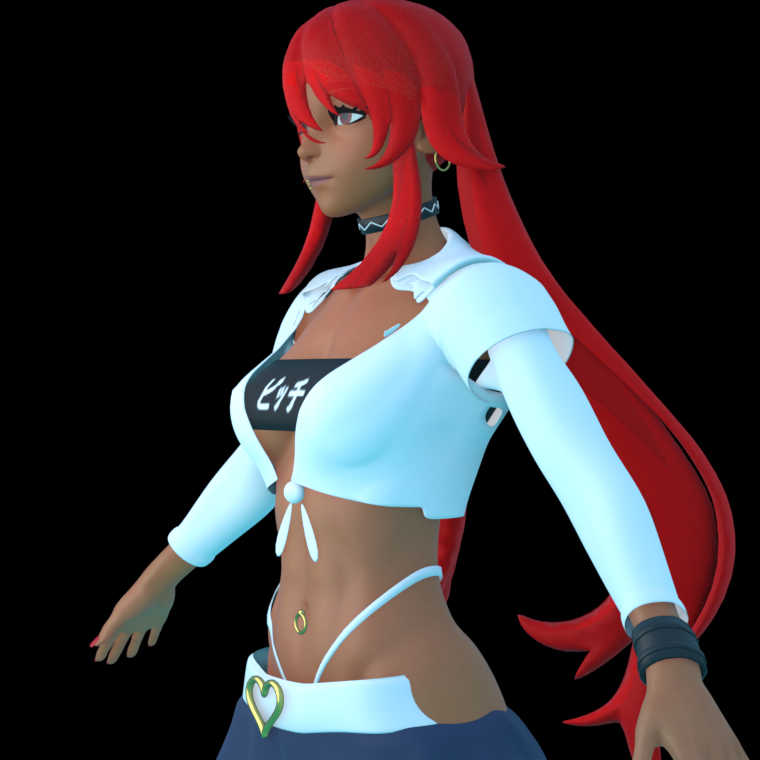
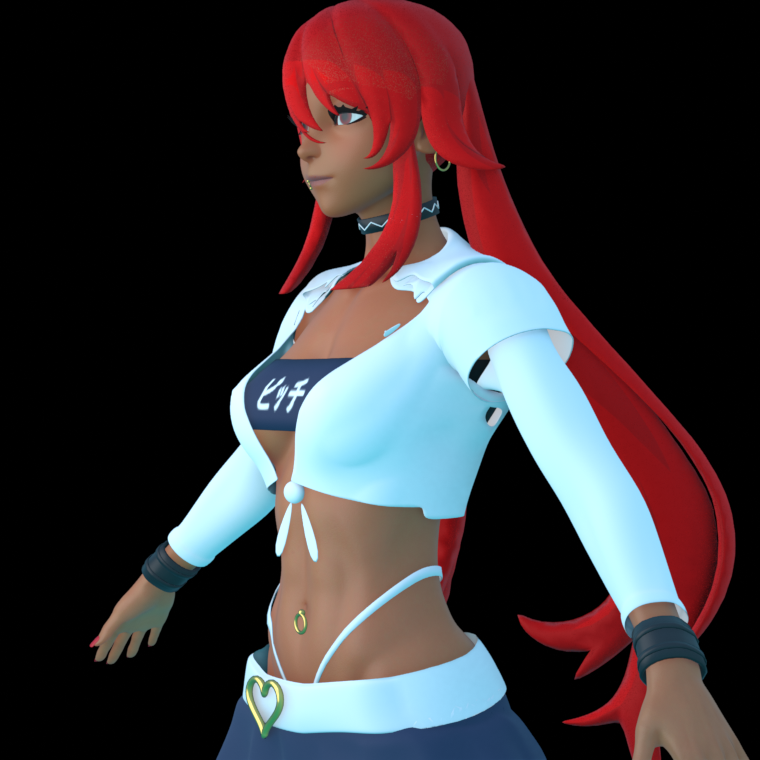
Restyle: keep garments clear of the skin, match full reference fit
Every garment now holds itself just outside the body surface so nothing
clips in any pose; the belt rides over the pleats. Adds the second wrist
cuff, navy bandeau, double white hem stripe and extra preview angles.

Claude-Session: https://claude.ai/code/session_01YBmGHDL1HPYT4vQtLqAYCC

Changed region(s): [[0.5145, 0.8171, 0.6658, 0.9684], [0.3026, 0.4539, 0.4539, 0.575], [0.1816, 0.6961, 0.2724, 0.7868]]

diff --git a/character_restyle/restyle.py b/character_restyle/restyle.py
@@ -138,6 +138,25 @@ def barbell(name, p0, p1, ball, bar, coll, mat):
     return new_obj(name, me, coll, mat)
 
 
+def keep_outside(o, offset, group=None):
+    """Hold a garment at least `offset` off the skin, in any pose (only vertices that sink in move)."""
+    m = o.modifiers.new("Rebel Keep Outside Body", "SHRINKWRAP")
+    m.target = body
+    m.wrap_method = "NEAREST_SURFACEPOINT"
+    m.wrap_mode = "OUTSIDE"
+    m.offset = offset
+    if group:
+        m.vertex_group = group
+    # must run on the posed shape but before any thickness is added
+    idx = len(o.modifiers) - 1
+    for i, other in enumerate(o.modifiers):
+        if other.type == "SOLIDIFY":
+            idx = i
+            break
+    o.modifiers.move(len(o.modifiers) - 1, idx)
+    return m
+
+
 def bone_pt(name, tail=False):
     """Bone end in world space, as posed (the rig's default pose is not its rest pose)."""
     b = arm.pose.bones[name]
@@ -406,6 +425,7 @@ bm.free()
 bandeau = new_obj("Bandeau", me, bpy.data.collections["Top"], band_mat)
 tex.extension = "CLIP"
 skin_to_body(bandeau)
+keep_outside(bandeau, 0.002)
 sol = bandeau.modifiers.new("Solidify", "SOLIDIFY")
 sol.thickness = 0.0012
 sol.offset = 1.0
@@ -428,6 +448,7 @@ for side, sx in (("L", 1), ("R", -1)):
         rings.append(offset_loop(wrap(c, ax, 0.085, n=24), c, ax, ease))
     sleeve = band("Shirt Sleeve " + side, rings, uniform, cotton, 0.0012)
     skin_to_body(sleeve)
+    keep_outside(sleeve, 0.003)
     sleeve.modifiers.new("Subdivision", "SUBSURF").levels = 1
 
 # ---------------------------------------------------------------- choker
@@ -440,6 +461,7 @@ for k in (-0.009, 0.0, 0.009):
     rings.append(offset_loop(wrap(c, ax, 0.2), c, ax, 0.0025))
 choker = band("Choker", rings, acc, leather, 0.0025)
 bone_parent(choker, "neck_01")
+keep_outside(choker, 0.002)
 # printed design: a white wavy line running round the band (no pendant)
 print_mat = make_mat("Rebel Choker Print", (0.85, 0.85, 0.85, 1), rough=0.6)
 WN, WAVES = 168, 14
@@ -459,21 +481,24 @@ acc.objects.link(cprint)
 pc.materials.append(print_mat)
 bone_parent(cprint, "neck_01")
 
-# ---------------------------------------------------------------- wrist cuff (her left)
-a, b = bone_pt("L_ForearmTwist"), bone_pt("L_ForearmTwist", True)
-ax = (b - a).normalized()
-c_mid = a.lerp(b, 0.74)
-rings = []
-for k in (-0.024, -0.008, 0.008, 0.024):
-    c = c_mid + ax * k
-    rings.append(offset_loop(wrap(c, ax, 0.12), c, ax, 0.003))
-cuff = band("Wrist Cuff", rings, acc, leather, 0.0035)
-bone_parent(cuff, "L_ForearmTwist")
-for k in (-0.012, 0.012):   # two stitched seams / straps
-    c = c_mid + ax * k
-    strap = band("Wrist Cuff Strap", [offset_loop(wrap(c + ax * s, ax, 0.12), c, ax, 0.0068) for s in (-0.0035, 0.0035)],
-                 acc, leather, 0.0015)
-    bone_parent(strap, "L_ForearmTwist")
+# ---------------------------------------------------------------- black leather cuffs, both wrists
+for side in ("L", "R"):
+    bone = side + "_ForearmTwist"
+    a, b = bone_pt(bone), bone_pt(bone, True)
+    ax = (b - a).normalized()
+    c_mid = a.lerp(b, 0.74)
+    rings = []
+    for k in (-0.024, -0.008, 0.008, 0.024):
+        c = c_mid + ax * k
+        rings.append(offset_loop(wrap(c, ax, 0.12), c, ax, 0.003))
+    cuff = band("Wrist Cuff " + side, rings, acc, leather, 0.0035)
+    bone_parent(cuff, bone)
+    for k in (-0.012, 0.012):   # two stitched seams / straps
+        c = c_mid + ax * k
+        strap = band("Wrist Cuff Strap " + side,
+                     [offset_loop(wrap(c + ax * s, ax, 0.12), c, ax, 0.0068) for s in (-0.0035, 0.0035)],
+                     acc, leather, 0.0015)
+        bone_parent(strap, bone)
 
 # ---------------------------------------------------------------- navel ring
 prof = []
@@ -713,30 +738,40 @@ knot.modifiers.new("Subdivision", "SUBSURF").levels = 1
 bone_parent(knot, "chestLower")
 
 # ---------------------------------------------------------------- skirt: navy pleats, white belt, heart buckle
-def striped(name, lo, hi):
-    """Navy cloth with a white stripe between two heights (0..1 of the rest-pose bounding box)."""
+def striped(name, bands):
+    """Navy cloth with white stripes; `bands` are (low, high) heights in 0..1 of the rest bounding box."""
     m = make_mat(name, NAVY, rough=0.75)
     nt = m.node_tree
     co = nt.nodes.new("ShaderNodeTexCoord")
     sep = nt.nodes.new("ShaderNodeSeparateXYZ")
-    above = nt.nodes.new("ShaderNodeMath")
-    above.operation = "GREATER_THAN"
-    above.inputs[1].default_value = lo
-    below = nt.nodes.new("ShaderNodeMath")
-    below.operation = "LESS_THAN"
-    below.inputs[1].default_value = hi
-    both = nt.nodes.new("ShaderNodeMath")
-    both.operation = "MULTIPLY"
+    nt.links.new(co.outputs["Generated"], sep.inputs[0])
+    total = None
+    for lo, hi in bands:
+        above = nt.nodes.new("ShaderNodeMath")
+        above.operation = "GREATER_THAN"
+        above.inputs[1].default_value = lo
+        below = nt.nodes.new("ShaderNodeMath")
+        below.operation = "LESS_THAN"
+        below.inputs[1].default_value = hi
+        both = nt.nodes.new("ShaderNodeMath")
+        both.operation = "MULTIPLY"
+        nt.links.new(sep.outputs["Z"], above.inputs[0])
+        nt.links.new(sep.outputs["Z"], below.inputs[0])
+        nt.links.new(above.outputs[0], both.inputs[0])
+        nt.links.new(below.outputs[0], both.inputs[1])
+        if total is None:
+            total = both
+        else:
+            add = nt.nodes.new("ShaderNodeMath")
+            add.operation = "MAXIMUM"
+            nt.links.new(total.outputs[0], add.inputs[0])
+            nt.links.new(both.outputs[0], add.inputs[1])
+            total = add
     mix = nt.nodes.new("ShaderNodeMix")
     mix.data_type = "RGBA"
     mix.inputs[6].default_value = NAVY
     mix.inputs[7].default_value = WHITE
-    nt.links.new(co.outputs["Generated"], sep.inputs[0])
-    nt.links.new(sep.outputs["Z"], above.inputs[0])
-    nt.links.new(sep.outputs["Z"], below.inputs[0])
-    nt.links.new(above.outputs[0], both.inputs[0])
-    nt.links.new(below.outputs[0], both.inputs[1])
-    nt.links.new(both.outputs[0], mix.inputs[0])
+    nt.links.new(total.outputs[0], mix.inputs[0])
     nt.links.new(mix.outputs[2], nt.nodes["Principled BSDF"].inputs["Base Color"])
     return m
 
@@ -786,10 +821,16 @@ for v in bm.verts:
     k = max(0.0, min(1.0, (v.co.z - 0.93) / 0.12))   # ease the waistband open so it clears the hips
     v.co.x *= 1 + 0.045 * k
     v.co.y = (v.co.y - 0.01) * (1 + 0.06 * k) + 0.01
+bm.verts.index_update()
+belt_idx = [v.index for v in belt]
 bm.to_mesh(skirt.data)
 bm.free()
+belt_vg = skirt.vertex_groups.new(name="Rebel Belt")
+belt_vg.add(belt_idx, 1.0, "REPLACE")
+keep_outside(skirt, 0.004)                 # pleats clear the hips...
+keep_outside(skirt, 0.008, belt_vg.name)   # ...and the belt rides on top of them
 white_belt = make_mat("Rebel White Belt", WHITE, rough=0.45)
-skirt.data.materials[0] = striped("Rebel Navy Skirt", 0.09, 0.16)
+skirt.data.materials[0] = striped("Rebel Navy Skirt", [(0.06, 0.10), (0.135, 0.18)])
 for i in range(1, len(skirt.data.materials)):
     skirt.data.materials[i] = white_belt
 
@@ -835,10 +876,13 @@ for i in range(SN):
         strap_loops[k].append(loc + d * 0.0025)
 straps = band("Thong Straps", strap_loops, bpy.data.collections["Bottom"], strap_mat, 0.0015)
 skin_to_body(straps)
+keep_outside(straps, 0.002)
+keep_outside(bpy.data.objects["Thong_01"], 0.0015)
 
 # ---------------------------------------------------------------- thigh-highs: navy with a white band
 socks = bpy.data.objects["Socks"]
-sock_mat = striped("Rebel Navy Thigh-highs", 0.875, 0.925)
+sock_mat = striped("Rebel Navy Thigh-highs", [(0.875, 0.925)])
+keep_outside(socks, 0.002)
 for i in range(len(socks.data.materials)):
     socks.data.materials[i] = sock_mat
 

diff --git a/character_restyle/preview.py b/character_restyle/preview.py
@@ -27,6 +27,9 @@ SHOTS = {  # name: (look-at point, distance, resolution, orbit angle in degrees)
     "side": ((0, 0, 1.50), 2.1, (760, 760), 55),
     "cuff": ((0.45, 0, 1.26), 0.9, (600, 600), 0),
     "waist": ((0, 0, 1.22), 0.9, (600, 600), 0),
+    "back": ((0, 0, 1.30), 2.6, (760, 760), 180),
+    "hip": ((0, 0, 1.12), 1.3, (700, 700), 70),
+    "legs": ((0, 0, 0.75), 1.9, (600, 760), 35),
 }
 for name in wanted or SHOTS:
     target, dist, res, deg = SHOTS[name]

diff --git a/character_restyle/make_label.py b/character_restyle/make_label.py
@@ -9,7 +9,7 @@ from PIL import Image, ImageDraw, ImageFont
 
 FONT = sys.argv[1] if len(sys.argv) > 1 else "/usr/share/fonts/opentype/ipafont-gothic/ipag.ttf"
 W, H = 2048, 560   # one tile; restyle.py keeps this aspect ratio on the garment
-img = Image.new("RGB", (W, H), (5, 6, 9))
+img = Image.new("RGB", (W, H), (22, 34, 66))
 draw = ImageDraw.Draw(img)
 font = ImageFont.truetype(FONT, 300)
 text = "ビッチ"
